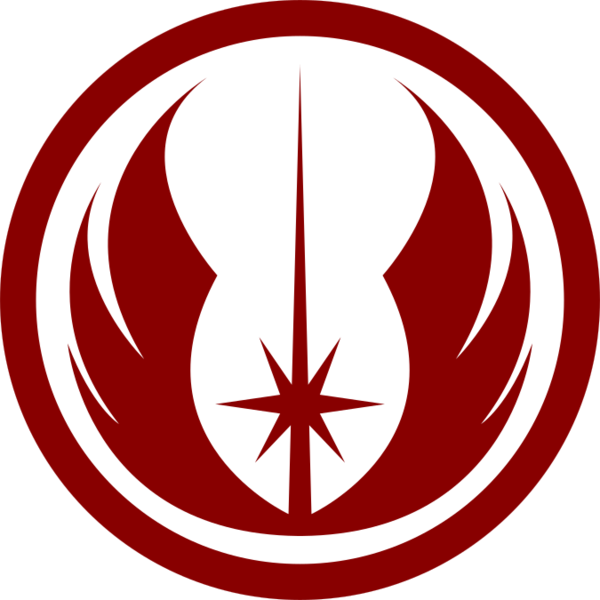
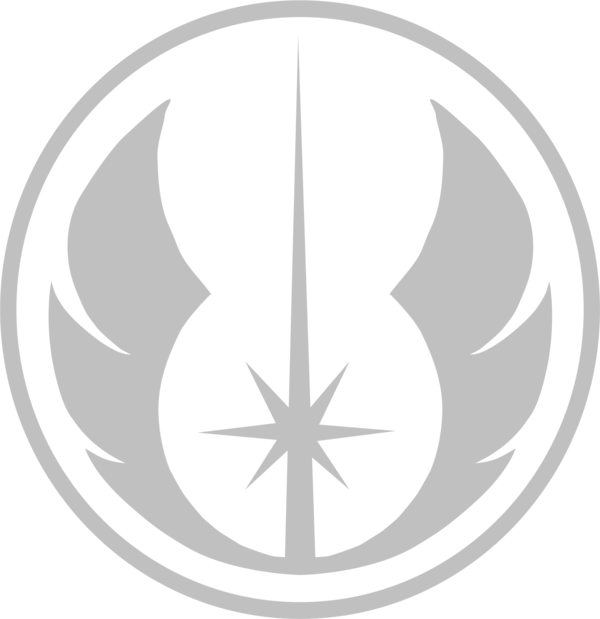
Finishing the basics for this new laptop configuration

diff --git a/.config/qtile/config.py b/.config/qtile/config.py
@@ -30,13 +30,13 @@ for i, (name) in enumerate(group_names):
 if (theme == "skyrim"):
     border_focus = "#b16e2e"
 elif (theme == "gow"):
-    border_focus = "#977474"
+    border_focus = "#bfa09b"
 elif (theme == "hzd"):
-    border_focus = "#7f6b6b"
+    border_focus = "#54445c"
 elif (theme == "sw"):
-    border_focus = "#91322a"
+    border_focus = "#ac7e6a"
 elif (theme == "world"):
-    border_focus = "#3c4445"
+    border_focus = "#34729f"
 
 layouts = [
     layout.MonadTall(

diff --git a/.config/qtile/colorschemes/hzd.py b/.config/qtile/colorschemes/hzd.py
@@ -1,8 +1,8 @@
 # This is the colorscheme for the horizon zero dawn design based on the wallpaper
 
 # Colors are listed from lightest to darkest
-white = "#b7c5db"
-grad1 = "#5d7caa"
-current_group_border = "#7f6b6b"
-grad2 = "#524356"
-black = "#221f25"
+white = "#a5949c"
+grad1 = "#945e6b"
+current_group_border = "#54445c"
+grad2 = "#301a21"
+black = "#180d15"

diff --git a/.config/qtile/colorschemes/gow.py b/.config/qtile/colorschemes/gow.py
@@ -1,8 +1,8 @@
 # This is the colorscheme for the god of war design based on the wallpaper
 
 # Colors are listed from lightest to darkest
-white = '#ffffff'
-grad1 = '#cea19f'
-current_group_border = '#977474'
-grad2 = '#b4747b'
-black = '#392e3c'
+white = '#e2ddcd'
+grad1 = '#c48773'
+current_group_border = '#bfa09b'
+grad2 = '#8d6d6c'
+black = '#2a1912'

diff --git a/.config/qtile/colorschemes/sw.py b/.config/qtile/colorschemes/sw.py
@@ -1,8 +1,8 @@
 # This is the colorscheme for the star wars design based on the wallpaper
 
 # Colors are listed from lightest to darkest
-white = "#B5A8A5"
-grad1 = "#8f5a55"
-current_group_border = "#91322a"
-grad2 = "#51231c"
-black = "#2c1c14"
+white = "#f4bb93"
+grad1 = "#6f5080"
+current_group_border = "#ac7e6a"
+grad2 = "#360a2d"
+black = "#1c0c14"

diff --git a/.config/qtile/colorschemes/world.py b/.config/qtile/colorschemes/world.py
@@ -1,8 +1,8 @@
 # This is the colorscheme for the world design based on the wallpaper
 
 # Colors are listed from lightest to darkest
-white = '#e5e5eb'
-grad1 = '#7c848a'
-current_group_border = '#3c4445'
-grad2 = '#1a1a3e'
-black = '#050515'
+white = '#a9cce5'
+grad1 = '#54636e'
+current_group_border = '#34729f'
+grad2 = '#2f3539'
+black = '#0d0f11'

diff --git a/.config/qtile/bars.py b/.config/qtile/bars.py
@@ -1,8 +1,8 @@
 from libqtile import bar, widget
 
 # Set the theme
-from colorschemes.world import *
-theme = "world"
+from colorschemes.sw import *
+theme = "sw"
 
 if (theme == "skyrim"): prompt = "🍮: "
 elif (theme == "gow"): prompt = "𝝮: "
